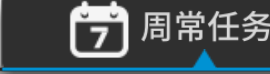
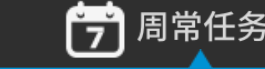
Arknights, auto quit
Improved arknights public recruit, now it will refresh even if not tickets. After everything, everything quits.

diff --git a/main.py b/main.py
@@ -10,6 +10,8 @@ from image_utils import set_game_name_for_image
 from task_tracker import *
 from selenium_utils import driver_quit
 from time import sleep
+import os
+import winsound
 
 def auto_arknights():
     set_game_name_for_task("")
@@ -43,6 +45,8 @@ def auto_genshin():
         genshin_action.login()
         set_game_name_for_task("")
         mark_done("genshin")
+        return 0
+    return -1
         
 def auto_zenless():
     set_game_name_for_task("")
@@ -51,6 +55,8 @@ def auto_zenless():
         zenless_action.login()
         set_game_name_for_task("")
         mark_done("zenless")
+        return 0
+    return -1
         
 def auto_limbus_company():
     set_game_name_for_task("")
@@ -60,8 +66,8 @@ def auto_limbus_company():
         mark_done("limbus company")
 
 def auto_everything():
-    auto_genshin()
-    sleep(10)
+    if auto_genshin() == 0:
+        sleep(10)
     auto_zenless()
     auto_limbus_company()
 
@@ -69,6 +75,7 @@ def auto_everything():
         input_utils.close_foreground_app()
         action.reset_init()
         sleep(1)
+        driver_quit()
         
     if auto_blue_archive():
         input_utils.close_foreground_app()
@@ -77,15 +84,24 @@ def auto_everything():
         
     auto_azur_lane()
     
-    driver_quit()
+    auto_everything_completed()
+    
+def auto_everything_completed():
+    mumu_quit()
 
+def mumu_quit():
+    os.system('taskkill /f /im MuMuPlayer.exe')
+    winsound.Beep(600, 500)
+    winsound.Beep(400, 500)
+    winsound.Beep(200, 500)
 
 if __name__ == "__main__":
     # mark_done("limbus company")
     # mark_done("arknights")
     # mark_done("blue archive")
     print("I am executed!")
-    auto_everything()
+    # auto_everything()
+    mumu_quit()
     # genshin_action.init()
     # genshin_action.login()
     # sleep(10)

diff --git a/arknights_action.py b/arknights_action.py
@@ -385,7 +385,7 @@ def receive_task_reward():
     expect("daily_task")
     do("receive_all_task_reward")
     # expect("got_resource")
-    expect("weekly_task", "weekly_task")
+    expect("weekly_task", "weekly_task", threshold=0.9)
     do("receive_all_task_reward")
     expect("homepage", "top_left")
 
@@ -414,7 +414,8 @@ def public_recruit():
             if not is_in_recruit_page:
                 do(f"start_recruit_{i}")
                 expect("public_recruit_specification")
-            if what_number("public_recruit_ticket_number") <= 0:
+            if what_number("public_recruit_ticket_number") <= 0 \
+                and not see("refresh_tags"):
                 break
             
             occupation_requirements = []
@@ -508,7 +509,9 @@ def auto_use_skill():
 if __name__ == "__main__":
     init()
     # auto_everything()
-    spend_energy()
+    # spend_energy()
+    receive_task_reward()
+    # see("weekly_task")
 
     # infrastructure()
     # auto_use_skill()

diff --git a/azur_lane_action.py b/azur_lane_action.py
@@ -65,7 +65,7 @@ def notif():
             if see("notif_techacademy_complete"):
                 do("notif_techacademy_complete")
                 slp()
-                expect("notif", "notif_enter")
+                expect("notif", "notif_enter", in_hurry=True)
             techacademy()
 
             if see("notif_tactics_complete"):
@@ -73,7 +73,7 @@ def notif():
                 
             if see("notif_delegation_complete"):
                 do("notif_delegation_complete")
-                expect("notif", "notif_enter")
+                expect("notif", "notif_enter", in_hurry=True)
             delegation()
             
             break
@@ -492,6 +492,4 @@ if __name__ == "__main__":
     # fleet()
     # dock()
     
-    
     pass
-# 

diff --git a/limbus_company_action.py b/limbus_company_action.py
@@ -64,8 +64,17 @@ def maximize_and_move(window_title, screen=1):
 def convert_energy():
     expect("energy", "login")
     do("energy")
+    expect("max_energy_conversion")
     do("max_energy_conversion")
     do("confirm")
+    
+def mail():
+    expect("homepage")
+    if see("mail_notif"):
+        do("mail_notif")
+        expect("mail_claim_all")
+        do("mail_claim_all")
+        do("mail_close")
     
 def exit_game():
     os.system('taskkill /F /IM LimbusCompany.exe')
@@ -74,6 +83,7 @@ def exit_game():
 def auto_everything():
     init()
     login()
+    mail()
     convert_energy()
     exit_game()
 

diff --git a/limbus_company_target.py b/limbus_company_target.py
@@ -24,10 +24,25 @@ Target(
 
 Target(
     id="max_energy_conversion",
-    click_pos=(1170, 510)
+    search_region=(1128, 466, 1204, 545)
 )
 
 Target(
     id="confirm",
     click_pos=(1100, 811)
+)
+
+Target(
+    id="mail_notif",
+    search_region=(1448, 132, 1583, 267)
+)
+
+Target(
+    id="mail_claim_all",
+    search_region=(1268, 792, 1550, 872)
+)
+
+Target(
+    id="mail_close",
+    click_pos=(1119, 829)
 )

diff --git a/arknights_target.py b/arknights_target.py
@@ -407,7 +407,7 @@ Target(
 
 Target(
     id="daily_task",
-    search_region=(670, 16, 974, 112)
+    search_region=(660, 10, 1000, 130)
 )
 
 Target(
@@ -417,7 +417,7 @@ Target(
 
 Target(
     id="weekly_task",
-    search_region=(1084, 16, 1379, 112)
+    search_region=(1056, 10, 1400, 130)
 )
 
 Target(
